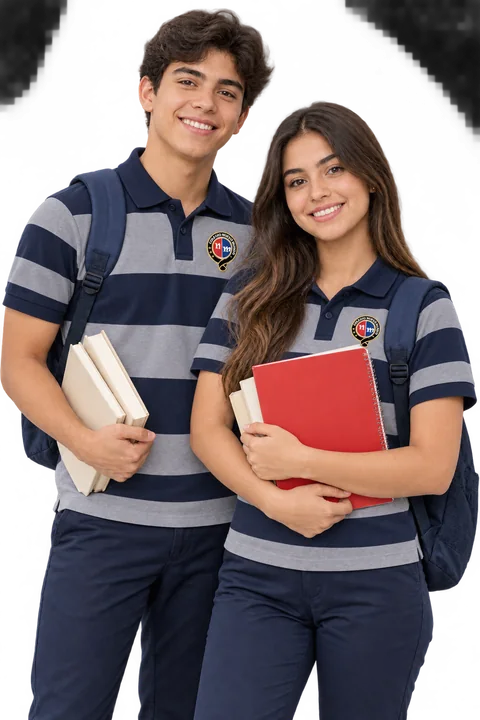
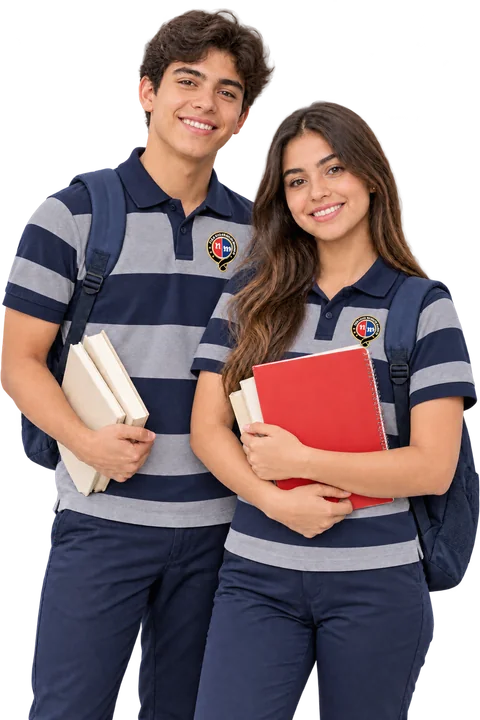
Corregir transparencia del recorte de los uniformes

diff --git a/index.html b/index.html
@@ -6,7 +6,7 @@
 <div class="utility-bar"><div class="container utility-inner"><div class="utility-links"><a href="#institucion">CONOZCA EL COLEGIO</a><a href="/colegio-nuevo-mundo-preview/noticias/">NOTICIAS</a><a href="/colegio-nuevo-mundo-preview/admin/">PERSONAL</a></div><div class="utility-contact"><a href="https://www.facebook.com/colegionuevomundocr" target="_blank" rel="noopener noreferrer" aria-label="Facebook del Colegio Nuevo Mundo">Facebook <span aria-hidden="true">↗</span></a><a class="utility-phone" href="tel:+50622261746">2226-1746</a></div></div></div>
 <header class="header"><div class="container nav-wrap"><a class="brand" href="/colegio-nuevo-mundo-preview/" aria-label="Colegio Nuevo Mundo, inicio"><img class="brand-logo" src="/colegio-nuevo-mundo-preview/logo-240.webp" srcset="/colegio-nuevo-mundo-preview/logo-240.webp 240w, /colegio-nuevo-mundo-preview/logo-480.webp 480w" sizes="(max-width: 820px) 60px, 68px" width="240" height="245" alt="" decoding="async"><span>COLEGIO<strong>NUEVO MUNDO</strong><small>COSTA RICA</small></span></a><button class="menu-toggle" aria-controls="nav" aria-expanded="false">Menú <span aria-hidden="true">☰</span></button><nav id="nav" aria-label="Navegación principal"><a href="#institucion">Institución</a><a href="#oferta">Oferta académica</a><a href="#admisiones">Admisiones</a><a href="/colegio-nuevo-mundo-preview/noticias/">Noticias</a><a class="button small" href="#contacto">Más información <span aria-hidden="true">↗</span></a></nav></div></header>
 <main id="contenido">
-<section class="campaign-hero" aria-label="Conozca el Colegio Nuevo Mundo"><div class="campaign-orbit" aria-hidden="true"></div><div class="container campaign-grid"><figure class="campaign-photo"><img src="/colegio-nuevo-mundo-preview/estudiantes-960.webp?v=2" srcset="/colegio-nuevo-mundo-preview/estudiantes-480.webp?v=2 480w, /colegio-nuevo-mundo-preview/estudiantes-960.webp?v=2 960w" sizes="(max-width: 600px) 80vw, (max-width: 820px) 44vw, 46vw" width="960" height="1440" alt="Imagen ilustrativa de dos jóvenes con libros y mochilas" fetchpriority="high"><figcaption>Imagen ilustrativa</figcaption></figure><div class="campaign-copy"><p class="campaign-kicker" id="campaign-kicker">APRENDER. CRECER. TRASCENDER.</p><div aria-live="polite" aria-atomic="true"><h1><span id="campaign-title">Un nuevo mundo</span><strong id="campaign-highlight">para tu futuro.</strong></h1><p class="campaign-description" id="campaign-description">Cada etapa es una oportunidad para aprender, descubrir y crecer. Conozca nuestra comunidad educativa.</p></div><a class="campaign-button" id="campaign-link" href="#institucion">Conozca el colegio <span aria-hidden="true">↗</span></a><div class="campaign-controls" aria-label="Mensajes destacados"><div class="campaign-dots"><button type="button" data-campaign="0" aria-label="Presentación del colegio" aria-pressed="true"></button><button type="button" data-campaign="1" aria-label="Oferta académica" aria-pressed="false"></button><button type="button" data-campaign="2" aria-label="Admisiones" aria-pressed="false"></button></div><span id="campaign-count" aria-hidden="true">01 / 03</span><div class="campaign-arrows"><button type="button" id="campaign-previous" aria-label="Mensaje anterior">←</button><button type="button" id="campaign-next" aria-label="Mensaje siguiente">→</button></div></div></div></div><div class="hero-location">SAN FRANCISCO DE DOS RÍOS · SAN JOSÉ</div></section>
+<section class="campaign-hero" aria-label="Conozca el Colegio Nuevo Mundo"><div class="campaign-orbit" aria-hidden="true"></div><div class="container campaign-grid"><figure class="campaign-photo"><img src="/colegio-nuevo-mundo-preview/estudiantes-960.webp?v=3" srcset="/colegio-nuevo-mundo-preview/estudiantes-480.webp?v=3 480w, /colegio-nuevo-mundo-preview/estudiantes-960.webp?v=3 960w" sizes="(max-width: 600px) 80vw, (max-width: 820px) 44vw, 46vw" width="960" height="1440" alt="Imagen ilustrativa de dos jóvenes con libros y mochilas" fetchpriority="high"><figcaption>Imagen ilustrativa</figcaption></figure><div class="campaign-copy"><p class="campaign-kicker" id="campaign-kicker">APRENDER. CRECER. TRASCENDER.</p><div aria-live="polite" aria-atomic="true"><h1><span id="campaign-title">Un nuevo mundo</span><strong id="campaign-highlight">para tu futuro.</strong></h1><p class="campaign-description" id="campaign-description">Cada etapa es una oportunidad para aprender, descubrir y crecer. Conozca nuestra comunidad educativa.</p></div><a class="campaign-button" id="campaign-link" href="#institucion">Conozca el colegio <span aria-hidden="true">↗</span></a><div class="campaign-controls" aria-label="Mensajes destacados"><div class="campaign-dots"><button type="button" data-campaign="0" aria-label="Presentación del colegio" aria-pressed="true"></button><button type="button" data-campaign="1" aria-label="Oferta académica" aria-pressed="false"></button><button type="button" data-campaign="2" aria-label="Admisiones" aria-pressed="false"></button></div><span id="campaign-count" aria-hidden="true">01 / 03</span><div class="campaign-arrows"><button type="button" id="campaign-previous" aria-label="Mensaje anterior">←</button><button type="button" id="campaign-next" aria-label="Mensaje siguiente">→</button></div></div></div></div><div class="hero-location">SAN FRANCISCO DE DOS RÍOS · SAN JOSÉ</div></section>
 <section class="admissions-callout" aria-label="Información de admisiones"><div class="container"><div><span>SU PRÓXIMO PASO</span><h2>Conocer su colegio empieza con una conversación.</h2></div><a href="#admisiones">Conozca el proceso <span aria-hidden="true">→</span></a></div></section>
 <section class="home-shortcuts container" aria-label="Accesos principales"><a href="#primaria"><span class="shortcut-symbol" aria-hidden="true">Aa</span><div><span>I Y II CICLO</span><h2>Primaria</h2></div><span class="shortcut-arrow" aria-hidden="true">↗</span></a><a href="#secundaria"><span class="shortcut-symbol" aria-hidden="true">x²</span><div><span>III CICLO Y DIVERSIFICADA</span><h2>Secundaria</h2></div><span class="shortcut-arrow" aria-hidden="true">↗</span></a><a href="#admisiones"><span class="shortcut-symbol" aria-hidden="true">↗</span><div><span>INFORMACIÓN PARA FAMILIAS</span><h2>Admisiones</h2></div><span class="shortcut-arrow" aria-hidden="true">↗</span></a></section>
 <section id="institucion" class="section container intro"><div><p class="eyebrow">NUESTRA INSTITUCIÓN</p><h2>Educar también es<br><em>acompañar.</em></h2></div><div><p class="section-lead">Creemos en una formación que conecta el aprendizaje, el desarrollo personal y la participación de las familias.</p><p>El Colegio Nuevo Mundo es una institución educativa privada ubicada en San Francisco de Dos Ríos, San José. Nuestra propuesta de comunicación parte de una idea sencilla: que cada familia pueda encontrar información clara y conversar directamente con el colegio.</p><a class="text-link" href="#contacto">Conozcámonos <span aria-hidden="true">↗</span></a></div></section>
